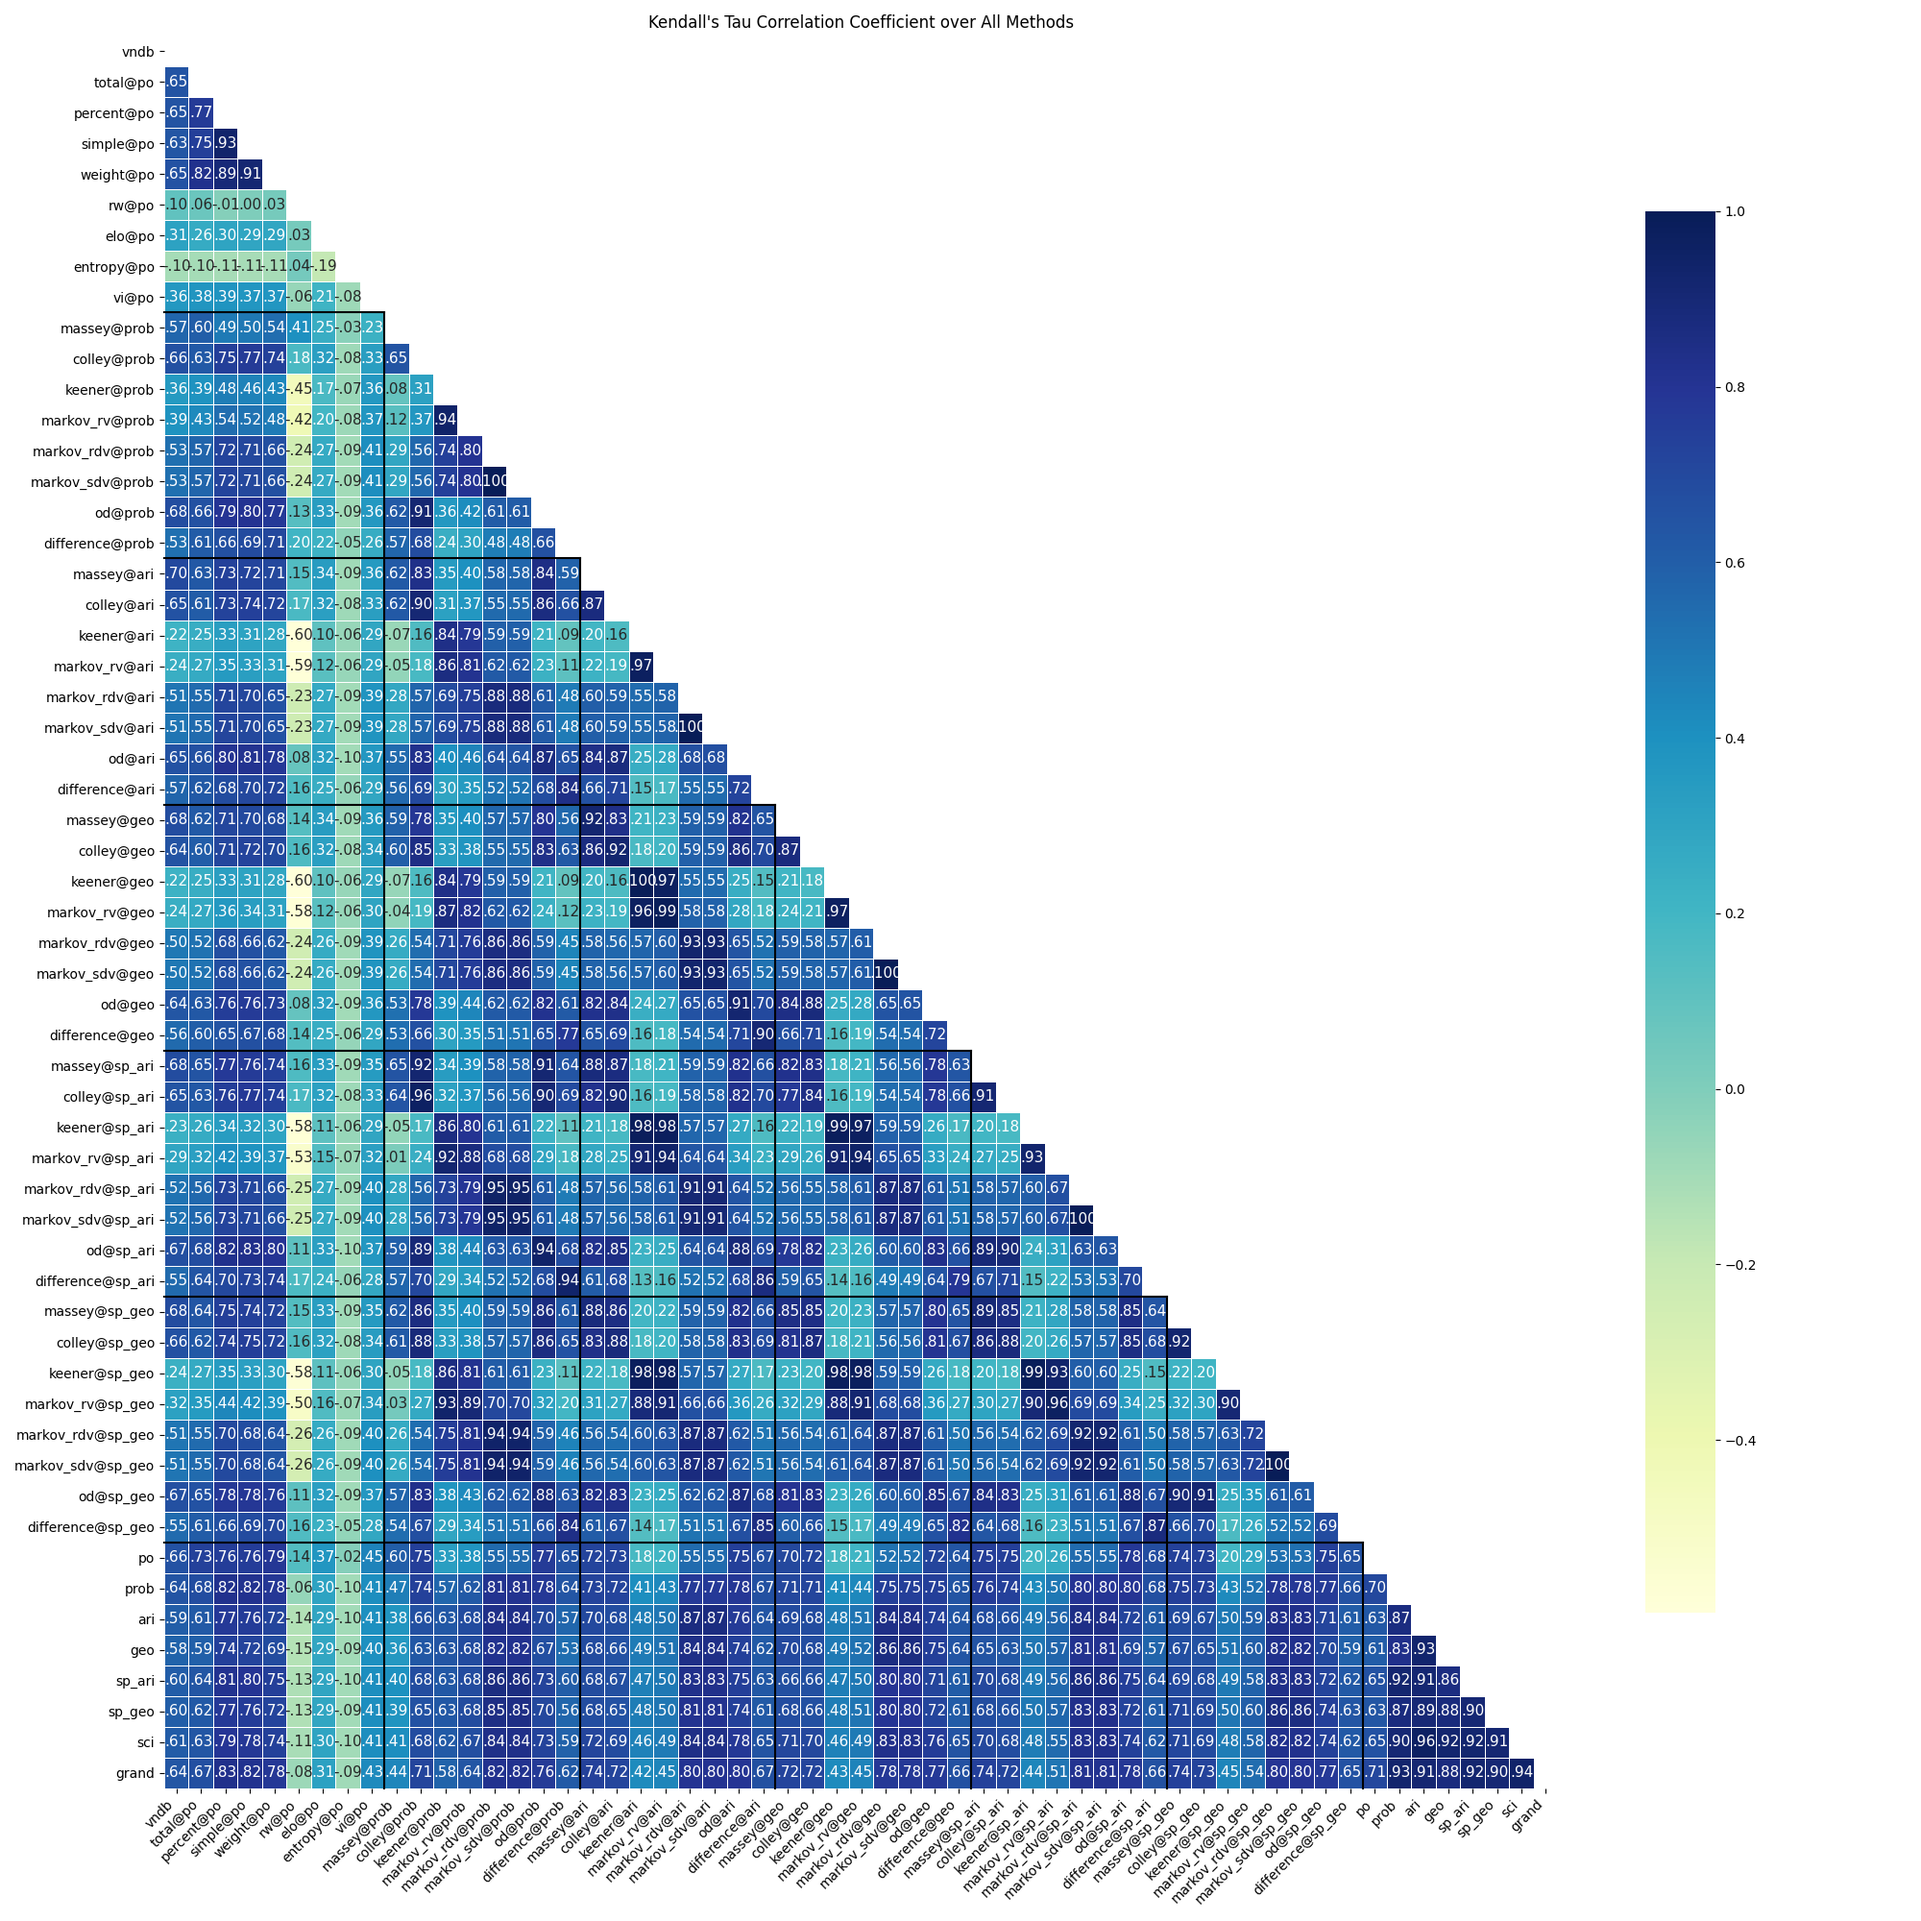
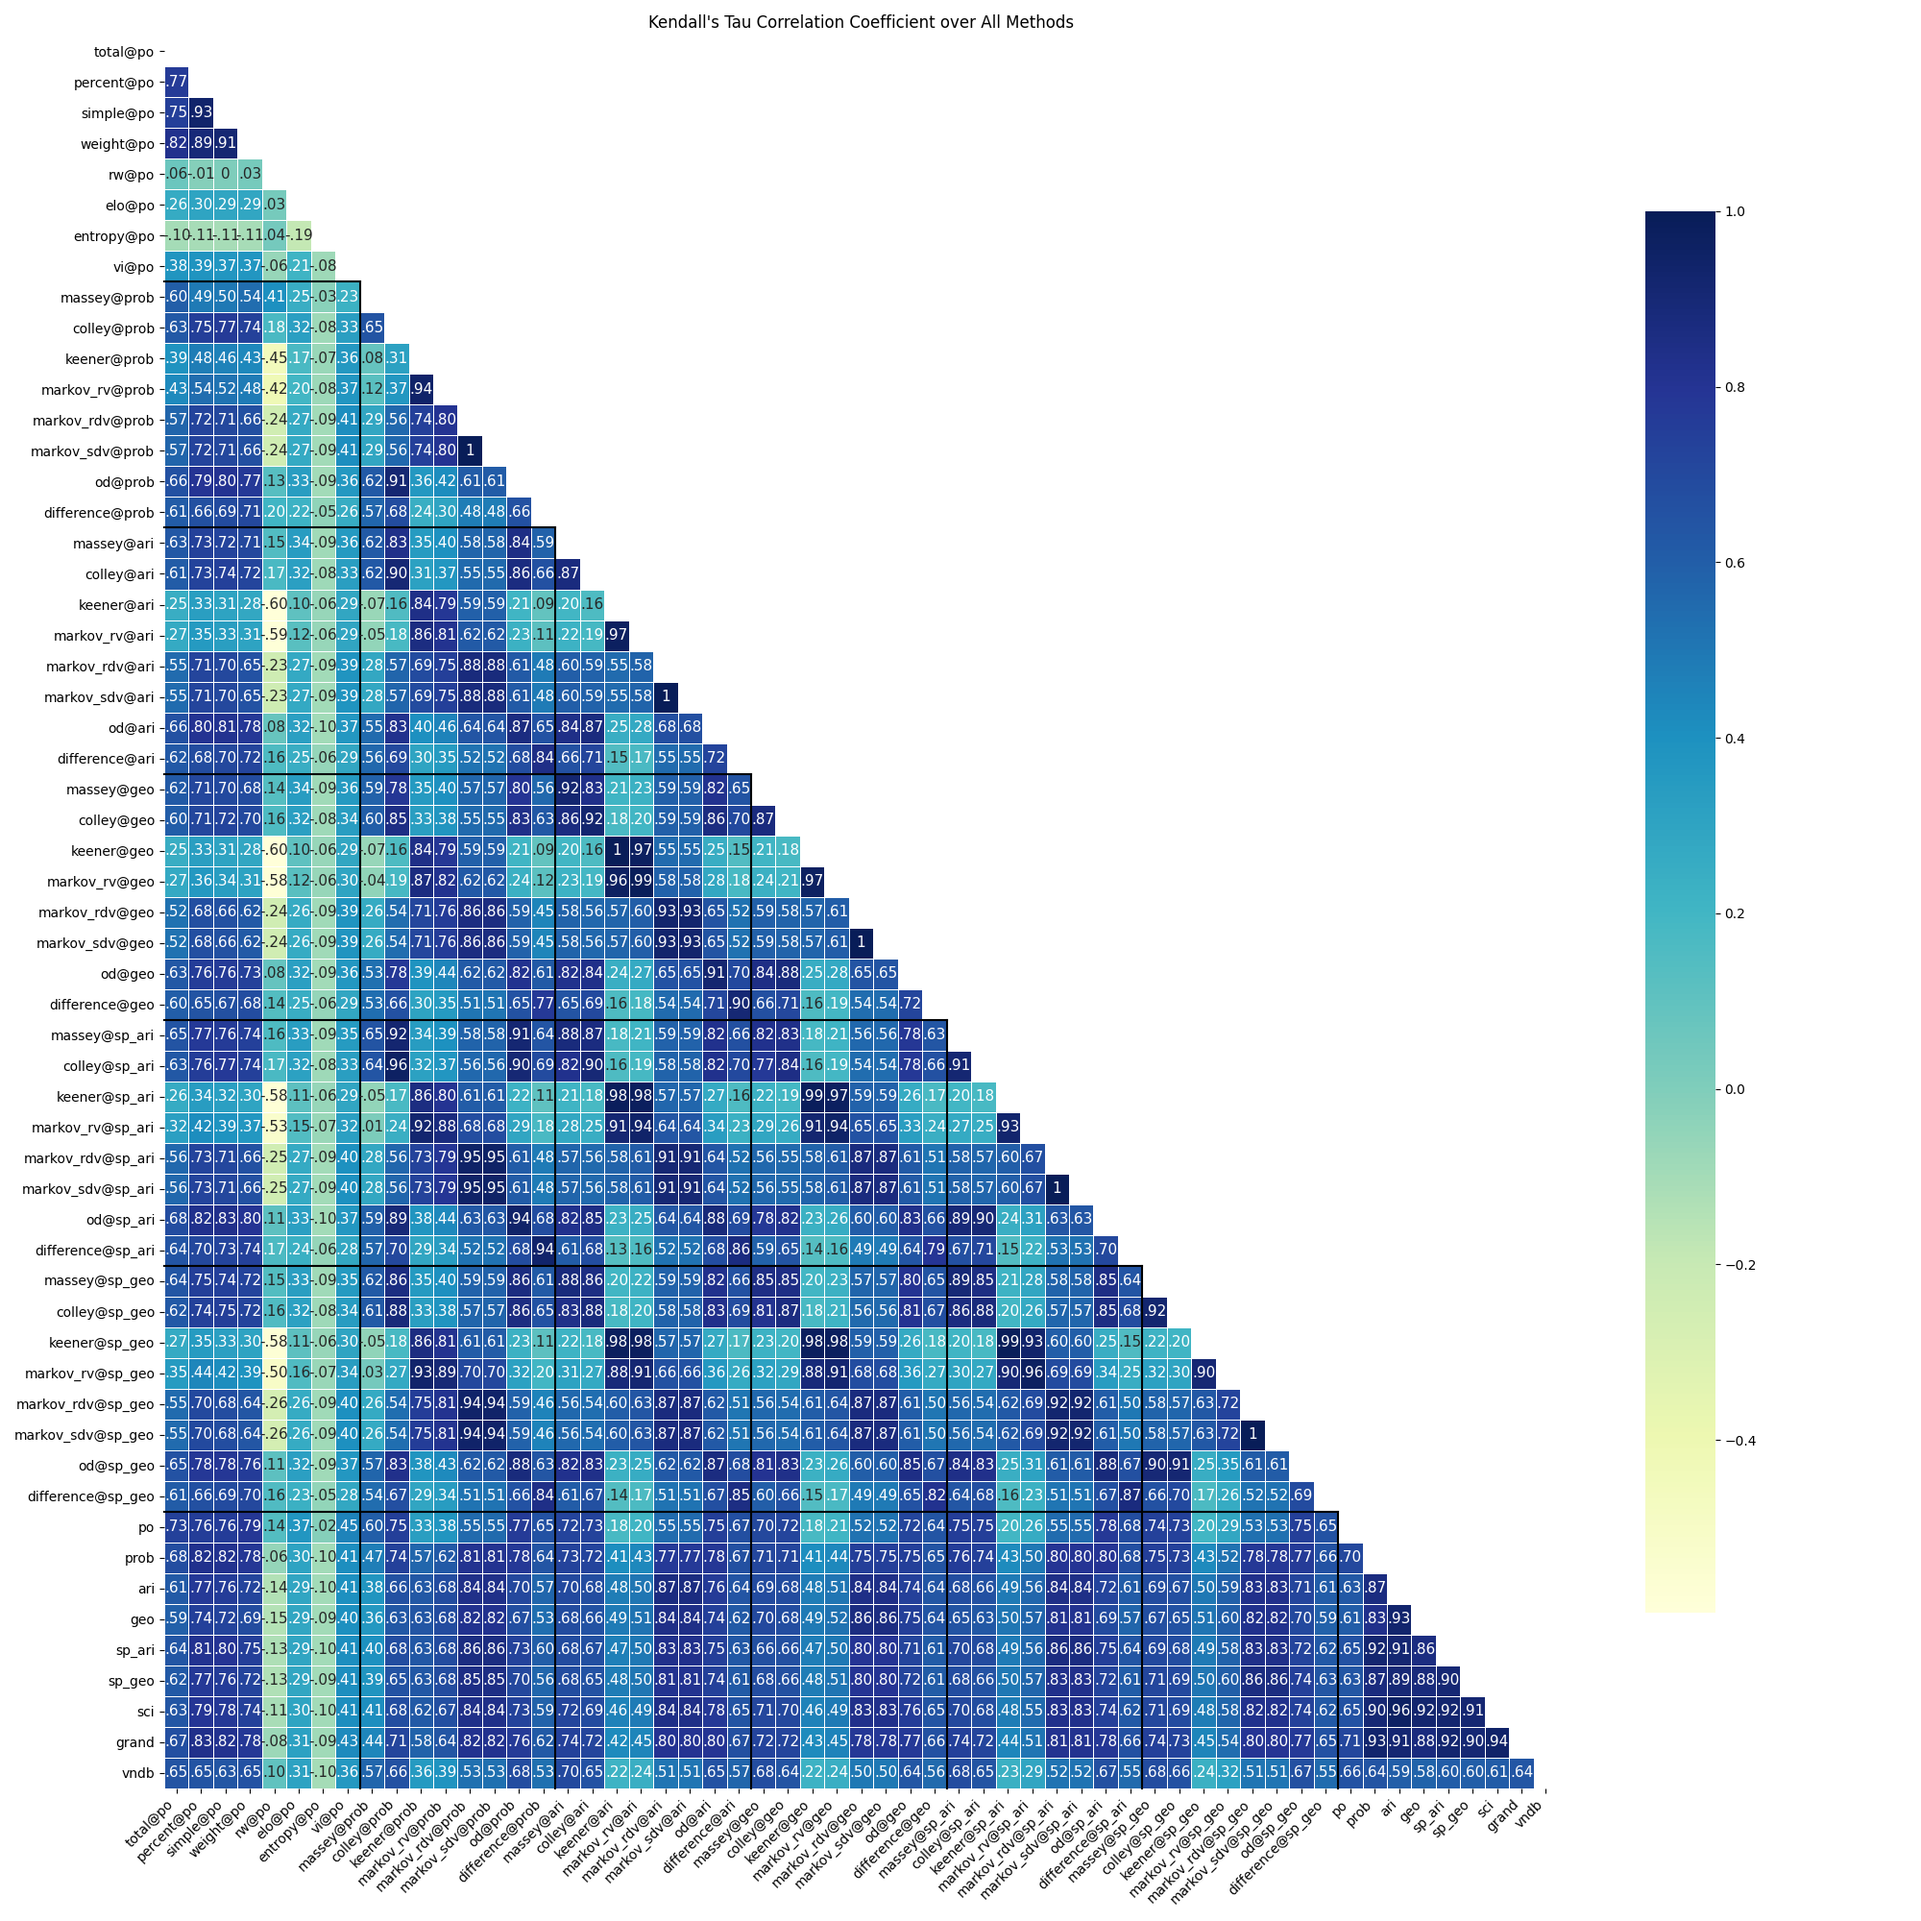
update kendall heatmap

Changed region(s): [[0.0, 0.031, 0.806, 0.992]]

diff --git a/dev/main.py b/dev/main.py
@@ -660,10 +660,16 @@ def compute_kendall_matrix(ratings):
 
 def render_value(val):
     val = round(val * 100)
-    if val >= 0:
+    if val == 100:
+        return "1"
+    elif val > 0:
         return f".{val:02d}"
-    else:
+    elif val == 0:
+        return "0"
+    elif val < 0:
         return f"-.{-val:02d}"
+    else:
+        return "-1"
 
 def visualize_rank():
     import seaborn as sns
@@ -678,10 +684,10 @@ def visualize_rank():
     borda_merge = pd.read_csv(os.path.join(tmp, "borda_merge.csv"))
 
     ratings = pd.DataFrame()
+    ratings[rank_po.columns[:-1]] = rank_po.iloc[:, :-1] # 8
+    ratings[rank_rankit.columns[:-1]] = rank_rankit.iloc[:, :-1] # 40
+    ratings[borda_merge.columns[:-1]] = borda_merge.iloc[:, :-1] # 8
     ratings['vndb'] = vndb # 0
-    ratings[rank_po.columns[:-1]] = rank_po.iloc[:, :-1] # 1-8 (8)
-    ratings[rank_rankit.columns[:-1]] = rank_rankit.iloc[:, :-1] # 9-48 (40)
-    ratings[borda_merge.columns[:-1]] = borda_merge.iloc[:, :-1] # 49-56 (8)
 
     ratings = (ratings - ratings.min()) / (ratings.max() - ratings.min())
     kendall = compute_kendall_matrix(ratings)
@@ -695,7 +701,7 @@ def visualize_rank():
                 cbar_kws={"shrink": .8}, linewidth=0.5, annot_kws={"size": 11}, ax=ax)
 
     for i in range(1, 7):
-        idx = i * 8 + 1
+        idx = i * 8
         ax.plot([0, idx], [idx, idx], color='black', lw=1.5, clip_on=False)
         ax.plot([idx, idx], [idx, M], color='black', lw=1.5, clip_on=False)
 
@@ -705,6 +711,21 @@ def visualize_rank():
     plt.title("Kendall's Tau Correlation Coefficient over All Methods")
     plt.tight_layout()
     plt.savefig(os.path.join(root, "assets", "kendall_heatmap.png"))
+
+    # [0:8] + [32:40] + [48:]
+    my_ratings = ratings.iloc[:, [0, 1, 2, 3, 4, 5, 6, 7, 32, 33, 34, 35, 36, 37, 38, 39, 48, 49, 50, 51, 52, 53, 54, 55, 56]]
+    _kendall = compute_kendall_matrix(my_ratings)
+    _M = _kendall.shape[0]
+    _mask = np.zeros_like(_kendall, dtype=bool)
+    _mask[np.triu_indices_from(_mask)] = True
+    fig, ax = plt.subplots(figsize=(12, 10))
+    sns.heatmap(_kendall, mask=_mask, annot=True, fmt=".2f", cmap="YlGnBu",
+                cbar_kws={"shrink": .8}, linewidth=0.5, ax=ax)
+    plt.xticks(rotation=45, ha='right')
+    plt.yticks(rotation=0)
+    plt.title("Kendall's Tau Correlation Coefficient over Selected Methods")
+    plt.tight_layout()
+    plt.savefig(os.path.join(root, "assets", "kendall_heatmap_selected.png"))
 
 # _vn()
 # _ulist_vns()
